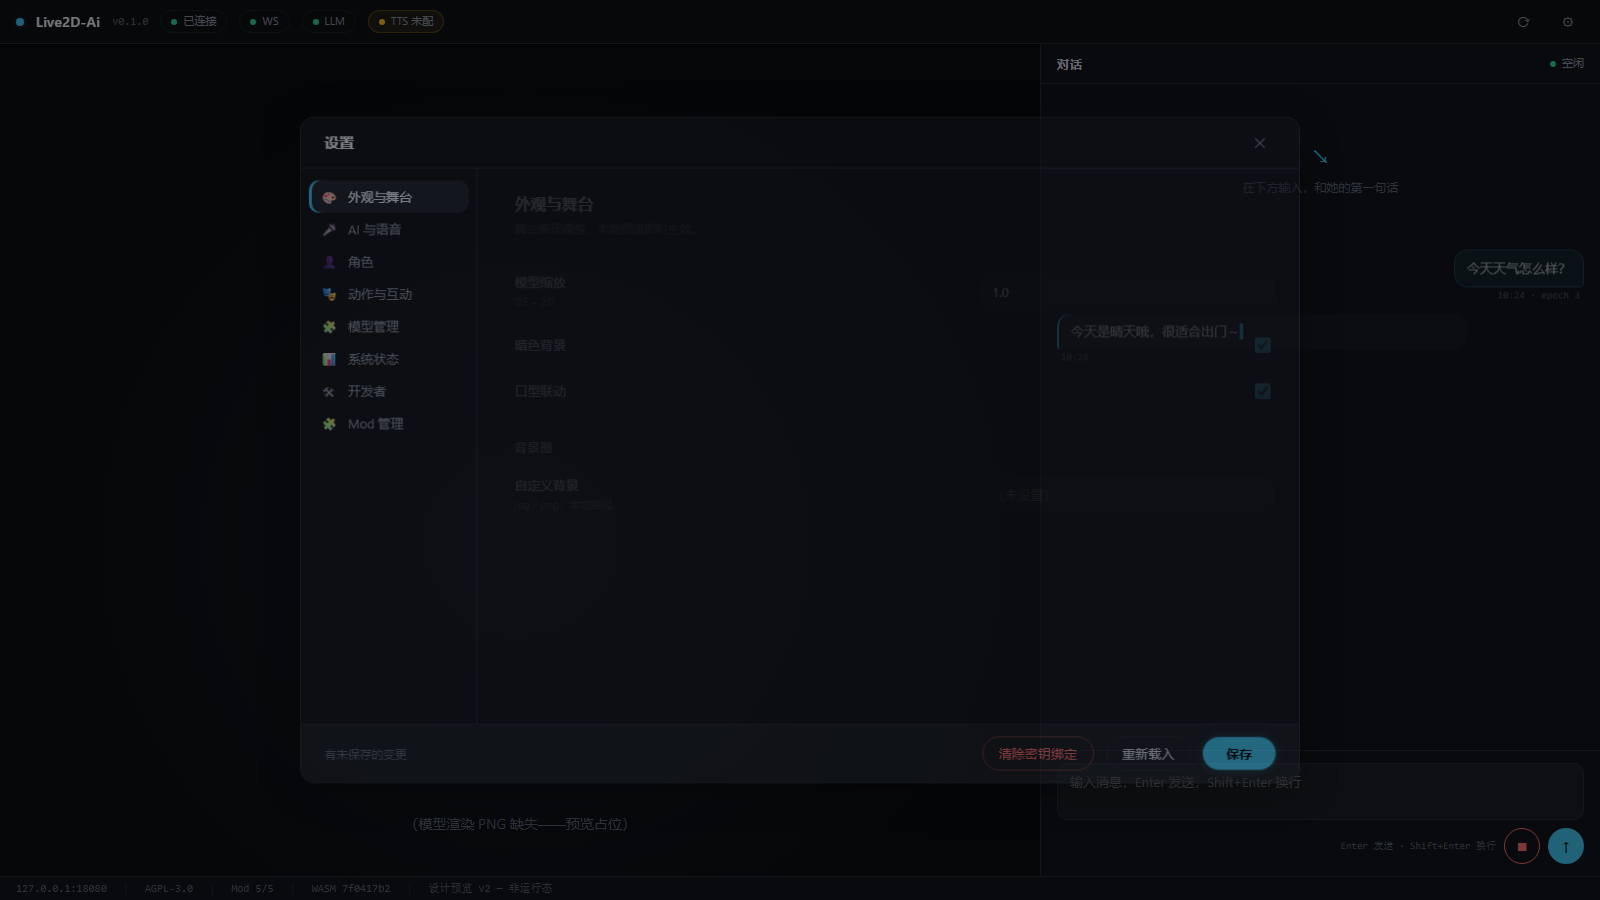
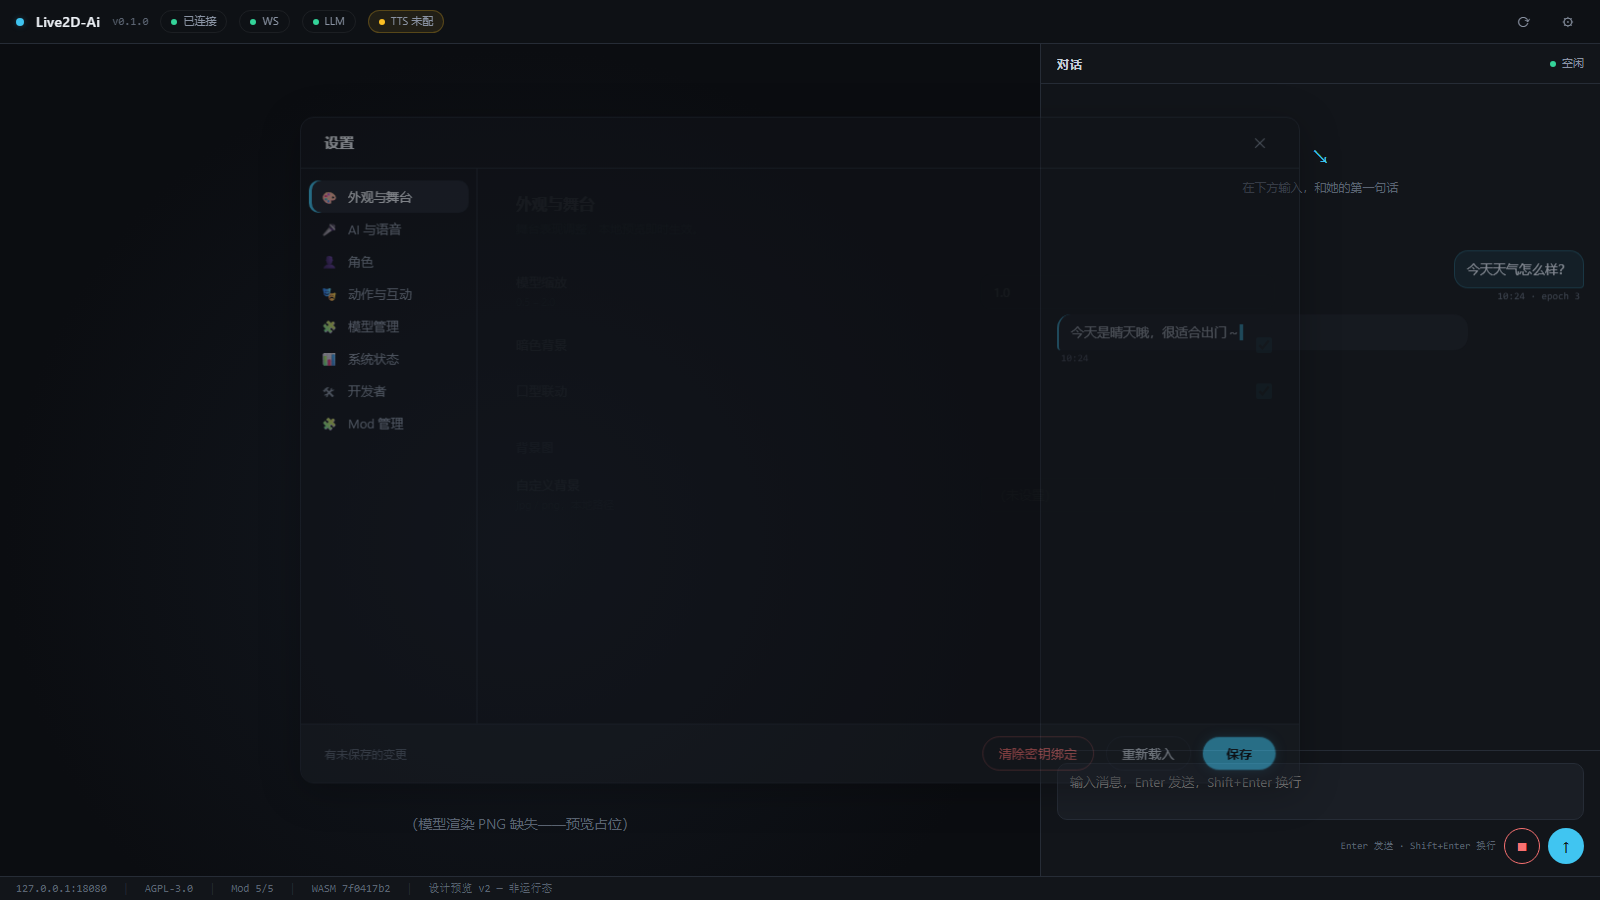
docs(p3.1): 预览 v2 修复 6 项——8 分区补全/label 关联/checkbox 可点文案/小窗兜底/真实脏检测/Esc+aria

diff --git a/docs/design/ui-preview-v2.html b/docs/design/ui-preview-v2.html
@@ -181,7 +181,7 @@ button { font-family: var(--font); cursor: pointer; }
 .settings-section .sec-desc { font-size: 12px; color: var(--fg-low); margin: 0 0 var(--s-5); }
 .field-row { display: flex; align-items: center; justify-content: space-between; gap: var(--s-4); padding: var(--s-3) 0; border-bottom: 1px solid var(--line-soft); }
 .field-row:last-child { border-bottom: 0; }
-.field-row .lbl { font-size: 13px; color: var(--fg); flex-shrink: 0; }
+.field-row .lbl { font-size: 13px; color: var(--fg); flex-shrink: 0; cursor: pointer; }
 .field-row .lbl small { display: block; font-size: 11px; color: var(--fg-low); margin-top: 2px; }
 .field-row input[type=text], .field-row select {
   width: 300px; background: var(--bg-2); color: var(--fg-hi);
@@ -206,6 +206,10 @@ button { font-family: var(--font); cursor: pointer; }
 .btn-ghost { padding: 8px 16px; border-radius: var(--r-pill); border: 1px solid var(--line); background: transparent; color: var(--fg); }
 .btn-ghost:hover { background: var(--bg-2); }
 .btn-danger-ghost { padding: 8px 16px; border-radius: var(--r-pill); border: 1px solid rgba(248,113,113,.4); background: transparent; color: var(--err); }
+@media (max-height: 640px) {
+  body { overflow: auto; }
+  .app { height: auto; min-height: 100vh; }
+}
 </style>
 </head>
 <body>
@@ -219,7 +223,7 @@ button { font-family: var(--font); cursor: pointer; }
     <span class="pill warn"><span class="dot"></span>TTS 未配</span>
     <span class="spacer"></span>
     <button class="icon-btn" title="刷新">⟳</button>
-    <button class="icon-btn" title="设置" onclick="document.getElementById('ov').hidden=false;document.getElementById('modal').hidden=false;">⚙</button>
+    <button class="icon-btn" title="设置" aria-haspopup="dialog" onclick="document.getElementById('ov').hidden=false;document.getElementById('modal').hidden=false;">⚙</button>
   </header>
 
   <div class="main">
@@ -263,11 +267,11 @@ button { font-family: var(--font); cursor: pointer; }
   </footer>
 </div>
 
-<div class="overlay" id="ov" hidden onclick="document.getElementById('ov').hidden=true;document.getElementById('modal').hidden=true;"></div>
+<div class="overlay" id="ov" hidden onclick="closeModal()"></div>
 <div class="settings-modal" id="modal" hidden role="dialog" aria-modal="true">
   <div class="settings-header">
     <h2>设置</h2>
-    <button class="icon-btn" onclick="document.getElementById('ov').hidden=true;document.getElementById('modal').hidden=true;">✕</button>
+    <button class="icon-btn" onclick="closeModal()">✕</button>
   </div>
   <div class="settings-body">
     <nav class="settings-rail" id="rail">
@@ -284,9 +288,9 @@ button { font-family: var(--font); cursor: pointer; }
       <section class="settings-section active" data-p="appearance">
         <h3 class="sec-title">外观与舞台</h3>
         <p class="sec-desc">舞台表现调整，本地预览即时生效。</p>
-        <div class="field-row"><span class="lbl">模型缩放<small>0.5 – 2.0</small></span><input type="text" value="1.0"></div>
-        <div class="field-row"><span class="lbl">暗色背景</span><input type="checkbox" checked></div>
-        <div class="field-row"><span class="lbl">口型联动</span><input type="checkbox" checked></div>
+        <div class="field-row"><label class="lbl" for="f-scale">模型缩放<small>0.5 – 2.0</small></label><input id="f-scale" type="text" value="1.0"></div>
+        <div class="field-row"><label class="lbl" for="f-dark">暗色背景</label><input id="f-dark" type="checkbox" checked></div>
+        <div class="field-row"><label class="lbl" for="f-lip">口型联动</label><input id="f-lip" type="checkbox" checked></div>
         <div class="group-title">背景图</div>
         <div class="field-row"><span class="lbl">自定义背景<small>jpg / png，本地路径</small></span><input type="text" placeholder="（未设置）"></div>
       </section>
@@ -294,28 +298,53 @@ button { font-family: var(--font); cursor: pointer; }
         <h3 class="sec-title">AI 与语音</h3>
         <p class="sec-desc">对话与语音服务端点（OpenAI 兼容）。</p>
         <div class="group-title">LLM</div>
-        <div class="field-row"><span class="lbl">Base URL</span><input type="text" value="http://127.0.0.1:11434/v1"></div>
-        <div class="field-row"><span class="lbl">模型</span><input type="text" value="qwen3.5:4b"></div>
-        <div class="field-row"><span class="lbl">API Key 环境变量<small>存变量名，非密钥</small></span><input type="text" placeholder="（未绑定）"></div>
+        <div class="field-row"><label class="lbl" for="f-llm-url">Base URL</label><input id="f-llm-url" type="text" value="http://127.0.0.1:11434/v1"></div>
+        <div class="field-row"><label class="lbl" for="f-llm-model">模型</label><input id="f-llm-model" type="text" value="qwen3.5:4b"></div>
+        <div class="field-row"><label class="lbl" for="f-llm-key">API Key 环境变量<small>存变量名，非密钥</small></label><input id="f-llm-key" type="text" placeholder="（未绑定）"></div>
         <div class="group-title">TTS</div>
-        <div class="field-row"><span class="lbl">Base URL</span><input type="text" placeholder="http://127.0.0.1:8000/v1"></div>
-        <div class="field-row"><span class="lbl">音色</span><input type="text" placeholder="af_heart"></div>
+        <div class="field-row"><label class="lbl" for="f-tts-url">Base URL</label><input id="f-tts-url" type="text" placeholder="http://127.0.0.1:8000/v1"></div>
+        <div class="field-row"><label class="lbl" for="f-tts-voice">音色</label><input id="f-tts-voice" type="text" placeholder="af_heart"></div>
       </section>
       <section class="settings-section" data-p="status">
         <h3 class="sec-title">系统状态</h3>
         <p class="sec-desc">运行时只读快照。</p>
-        <div class="field-row"><span class="lbl">配置文件</span><input type="text" value="~/.config/live2d-ai/live2d-ai.toml" readonly style="font-family:var(--mono);color:var(--fg-mid)"></div>
-        <div class="field-row"><span class="lbl">运行时长</span><input type="text" value="1h 23m" readonly style="font-family:var(--mono)"></div>
-        <div class="field-row"><span class="lbl">音频</span><input type="text" value="dry-run（无设备）" readonly style="font-family:var(--mono);color:var(--warn)"></div>
+        <div class="field-row"><label class="lbl" for="f-cfg">配置文件</label><input id="f-cfg" type="text" value="~/.config/live2d-ai/live2d-ai.toml" readonly style="font-family:var(--mono);color:var(--fg-mid)"></div>
+        <div class="field-row"><label class="lbl" for="f-uptime">运行时长</label><input id="f-uptime" type="text" value="1h 23m" readonly style="font-family:var(--mono)"></div>
+        <div class="field-row"><label class="lbl" for="f-audio">音频</label><input id="f-audio" type="text" value="dry-run（无设备）" readonly style="font-family:var(--mono);color:var(--warn)"></div>
+      </section>
+      <section class="settings-section" data-p="character">
+        <h3 class="sec-title">角色</h3>
+        <p class="sec-desc">人格设定与对话风格。</p>
+        <div class="field-row"><label class="lbl" for="f-persona-name">角色名称</label><input id="f-persona-name" type="text" value="Bai"></div>
+        <div class="field-row"><label class="lbl" for="f-persona-prompt">系统提示词<small>System Prompt</small></label><input id="f-persona-prompt" type="text" placeholder="（未设置）"></div>
+      </section>
+      <section class="settings-section" data-p="actions">
+        <h3 class="sec-title">动作与互动</h3>
+        <p class="sec-desc">Live2D 动作触发与互动规则。</p>
+        <div class="field-row"><label class="lbl" for="f-idle">空闲随机动作</label><input id="f-idle" type="checkbox" checked></div>
+        <div class="field-row"><label class="lbl" for="f-click">点击触发互动</label><input id="f-click" type="checkbox" checked></div>
+      </section>
+      <section class="settings-section" data-p="models">
+        <h3 class="sec-title">模型管理</h3>
+        <p class="sec-desc">Live2D 模型文件与切换。</p>
+        <div class="field-row"><label class="lbl" for="f-model-path">当前模型路径<small>本地路径</small></label><input id="f-model-path" type="text" value="./models/bai/bai.model3.json" readonly></div>
+      </section>
+      <section class="settings-section" data-p="dev">
+        <h3 class="sec-title">开发者</h3>
+        <p class="sec-desc">调试与日志。</p>
+        <div class="field-row"><label class="lbl" for="f-debug">调试面板</label><input id="f-debug" type="checkbox"></div>
+        <div class="field-row"><label class="lbl" for="f-log-level">日志级别</label>
+          <select id="f-log-level"><option>info</option><option>debug</option><option>trace</option></select>
+        </div>
       </section>
       <section class="settings-section" data-p="mods">
         <h3 class="sec-title">Mod 管理</h3>
         <p class="sec-desc">静态编译 Mod：启用/禁用/重启为运行时开关；安装新 Mod 需重新构建。</p>
-        <div class="field-row"><span class="lbl">external-input<small>外部事件接入 v0.1.0</small></span><input type="checkbox"></div>
-        <div class="field-row"><span class="lbl">director<small>动作编排 v0.1.0</small></span><input type="checkbox"></div>
-        <div class="field-row"><span class="lbl">pet-desktop<small>桌宠窗口 v0.1.0（骨架）</small></span><input type="checkbox"></div>
-        <div class="field-row"><span class="lbl">local-llm<small>本地大模型 v0.1.0</small></span><input type="checkbox"></div>
-        <div class="field-row"><span class="lbl">local-tts<small>本地语音合成 v0.1.0</small></span><input type="checkbox"></div>
+        <div class="field-row"><label class="lbl" for="f-mod-external-input">external-input<small>外部事件接入 v0.1.0</small></span><input type="checkbox"></div>
+        <div class="field-row"><label class="lbl" for="f-mod-director">director<small>动作编排 v0.1.0</small></span><input type="checkbox"></div>
+        <div class="field-row"><label class="lbl" for="f-mod-pet-desktop">pet-desktop<small>桌宠窗口 v0.1.0（骨架）</small></span><input type="checkbox"></div>
+        <div class="field-row"><label class="lbl" for="f-mod-local-llm">local-llm<small>本地大模型 v0.1.0</small></span><input type="checkbox"></div>
+        <div class="field-row"><label class="lbl" for="f-mod-local-tts">local-tts<small>本地语音合成 v0.1.0</small></span><input type="checkbox"></div>
       </section>
     </div>
   </div>
@@ -327,6 +356,26 @@ button { font-family: var(--font); cursor: pointer; }
   </div>
 </div>
 <script>
+function closeModal() {
+  document.getElementById('ov').hidden = true;
+  document.getElementById('modal').hidden = true;
+}
+document.addEventListener('keydown', e => {
+  if (e.key === 'Escape' && !document.getElementById('modal').hidden) closeModal();
+});
+let dirty = false;
+document.querySelectorAll('.settings-body input, .settings-body select').forEach(el => {
+  el.addEventListener('input', () => {
+    dirty = true;
+    document.querySelector('.btn-save').classList.add('dirty');
+    document.querySelector('.settings-footer .status').textContent = '有未保存的变更';
+  });
+});
+document.querySelector('.btn-save').addEventListener('click', () => {
+  dirty = false;
+  document.querySelector('.btn-save').classList.remove('dirty');
+  document.querySelector('.settings-footer .status').textContent = '已保存';
+});
 function sel(btn) {
   document.querySelectorAll('.rail-item').forEach(r => r.classList.remove('active'));
   btn.classList.add('active');
